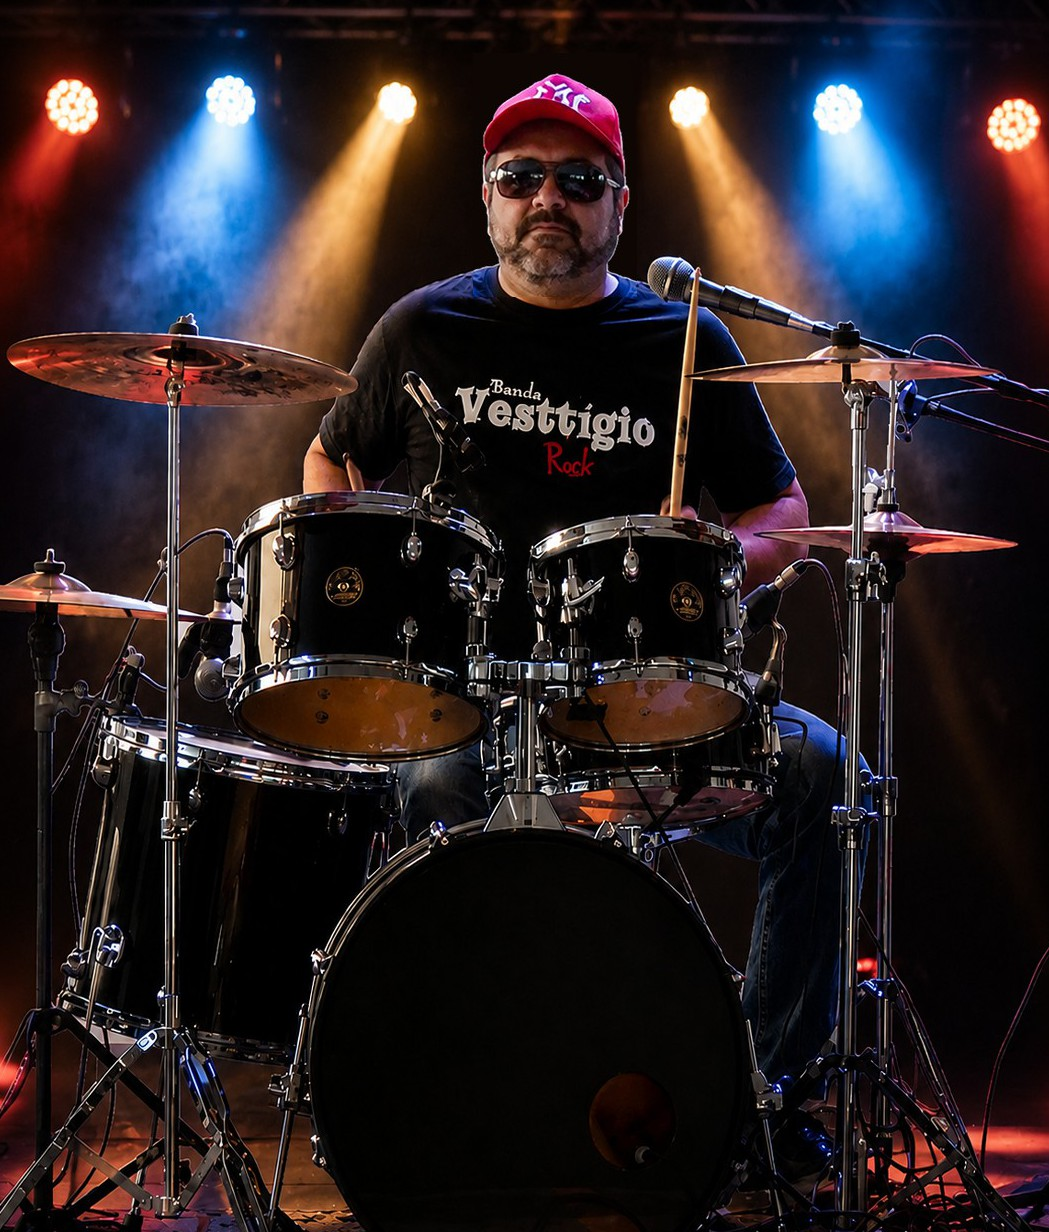
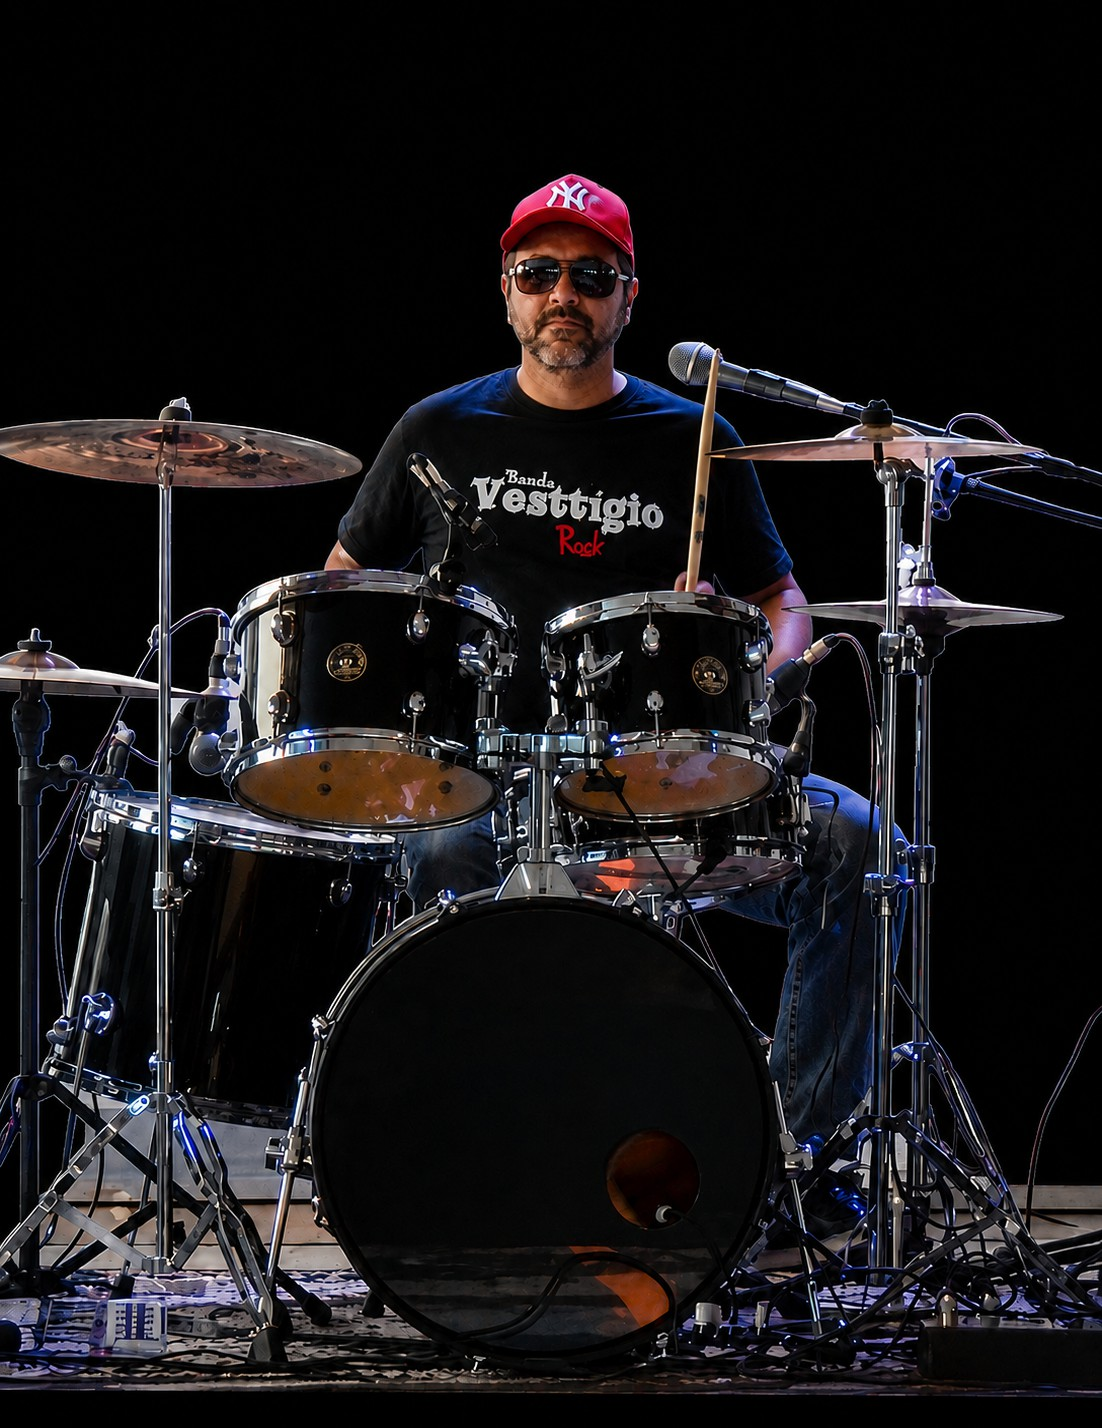
melhorias no download

diff --git a/script.js b/script.js
@@ -190,17 +190,46 @@ window.addEventListener("load", () => {
 /* ==========================================================
    DOWNLOADS CATALOG
 ========================================================= */
+const getFileNameFromPath = (path) => path.split('/').pop();
+
 const downloadCatalog = {
     'rider-tecnico': {
         label: 'Rider Técnico',
         description: 'Especificações e mapa de palco.',
         files: [
             {
-                title: 'Rider Técnico',
+                title: 'Rider Técnico (PDF)',
                 description: 'Especificações e mapa de palco.',
                 file: 'assets/downloads/rider.pdf',
                 format: 'PDF',
-                type: 'pdf'
+                type: 'pdf',
+                fileName: getFileNameFromPath('assets/downloads/rider.pdf')
+            },
+            {
+                title: 'Rider Técnico (ZIP)',
+                description: 'Pacote com rider e materiais extras.',
+                file: 'assets/downloads/rider.zip',
+                format: 'ZIP',
+                type: 'zip',
+                fileName: getFileNameFromPath('assets/downloads/rider.zip')
+            },
+            {
+                title: 'Mapa de Palco (JPG)',
+                description: 'Mapa de palco em alta resolução.',
+                file: 'assets/downloads/Mapa.jpg',
+                format: 'JPG',
+                type: 'image',
+                preview: 'assets/downloads/Mapa.jpg',
+                fileName: getFileNameFromPath('assets/downloads/Mapa.jpg')
+            },
+            {
+                title: 'Mapa de Palco (PNG)',
+                description: 'Mapa de palco em alta resolução.',
+                file: 'assets/downloads/mapa.png',
+                format: 'PNG',
+                type: 'image',
+                preview: 'assets/downloads/mapa.png',
+                fileName: getFileNameFromPath('assets/downloads/mapa.png')
             }
         ]
     },
@@ -213,7 +242,8 @@ const downloadCatalog = {
                 description: 'Histórico e proposta da banda.',
                 file: 'assets/downloads/release.pdf',
                 format: 'PDF',
-                type: 'pdf'
+                type: 'pdf',
+                fileName: getFileNameFromPath('assets/downloads/release.pdf')
             }
         ]
     },
@@ -222,12 +252,13 @@ const downloadCatalog = {
         description: 'Material de divulgação em alta.',
         files: [
             {
-                title: 'Fotos Oficiais',
-                description: 'Material de divulgação em alta.',
+                title: 'Banner de Divulgação',
+                description: 'Imagem para material promocional.',
                 file: 'assets/downloads/banner.png',
                 format: 'PNG',
                 type: 'image',
-                preview: 'assets/downloads/banner.png'
+                preview: 'assets/downloads/banner.png',
+                fileName: getFileNameFromPath('assets/downloads/banner.png')
             }
         ]
     },
@@ -241,7 +272,8 @@ const downloadCatalog = {
                 file: 'assets/downloads/logo.jpg',
                 format: 'JPG',
                 type: 'image',
-                preview: 'assets/downloads/logo.jpg'
+                preview: 'assets/downloads/logo.jpg',
+                fileName: getFileNameFromPath('assets/downloads/logo.jpg')
             },
             {
                 title: 'Logo Vesttigio – fundo transparente',
@@ -249,7 +281,8 @@ const downloadCatalog = {
                 file: 'assets/downloads/semfundo.png',
                 format: 'PNG',
                 type: 'image',
-                preview: 'assets/downloads/semfundo.png'
+                preview: 'assets/downloads/semfundo.png',
+                fileName: getFileNameFromPath('assets/downloads/semfundo.png')
             }
         ]
     }
@@ -285,30 +318,37 @@ const downloadModalPreviewTitle = downloadModalBackdrop.querySelector('#download
 const downloadModalPreviewContent = downloadModalBackdrop.querySelector('#downloadModalPreviewContent');
 const downloadModalPreviewDownload = downloadModalBackdrop.querySelector('#downloadModalPreviewDownload');
 
+let activeDownloadCategoryKey = null;
+
 const openDownloadModal = (categoryKey) => {
     const category = downloadCatalog[categoryKey];
     if (!category) return;
 
+    activeDownloadCategoryKey = categoryKey;
     downloadModalTitle.textContent = category.label;
     downloadModalDescription.textContent = category.description;
     downloadModalPreview.hidden = true;
     downloadModalPreviewContent.innerHTML = '';
 
-    downloadModalList.innerHTML = category.files.map((file, index) => `
+    downloadModalList.innerHTML = category.files.map((file, index) => {
+        const canPreview = ['pdf', 'image'].includes(file.type);
+        return `
         <div class="download-modal-item" data-file-index="${index}">
             <div class="download-modal-item-header">
                 <div>
                     <p class="download-modal-item-title">${file.title}</p>
+                    <p class="download-modal-item-filename">${file.fileName}</p>
                     <p class="download-modal-item-format">${file.format}</p>
                 </div>
                 <div class="download-modal-item-actions">
-                    <button type="button" class="download-modal-view">Visualizar</button>
-                    <a href="${file.file}" download>Download</a>
+                    ${canPreview ? `<button type="button" class="download-modal-view">Visualizar</button>` : ''}
+                    <a href="${file.file}" download="${file.fileName}">Baixar</a>
                 </div>
             </div>
             <p class="download-modal-item-description">${file.description}</p>
         </div>
-    `).join('');
+    `;
+    }).join('');
 
     downloadModalBackdrop.classList.add('active');
 };
@@ -357,17 +397,6 @@ document.addEventListener('keydown', (event) => {
     }
 });
 
-const downloadCards = document.querySelectorAll('.press-card');
-
-downloadCards.forEach(card => {
-    card.addEventListener('click', (event) => {
-        if (event.target.closest('a')) return;
-        const category = card.getAttribute('data-download-category');
-        if (!category) return;
-        openDownloadModal(category);
-    });
-});
-
 const delegateViewClick = (event) => {
     const viewButton = event.target.closest('.download-modal-view');
     if (!viewButton) return;
@@ -375,8 +404,8 @@ const delegateViewClick = (event) => {
     const item = viewButton.closest('.download-modal-item');
     if (!item) return;
 
-    const categoryKey = downloadModalTitle.textContent.toLowerCase().replace(/ /g, '-');
-    const category = Object.values(downloadCatalog).find(cat => cat.label === downloadModalTitle.textContent);
+    if (!activeDownloadCategoryKey) return;
+    const category = downloadCatalog[activeDownloadCategoryKey];
     if (!category) return;
 
     const fileIndex = Number(item.dataset.fileIndex);
@@ -384,5 +413,20 @@ const delegateViewClick = (event) => {
     if (!file) return;
     renderDownloadPreview(file);
 };
+
+const downloadCardLinks = document.querySelectorAll('.press-card a');
+
+downloadCardLinks.forEach(link => {
+    link.addEventListener('click', (event) => {
+        event.preventDefault();
+        const card = link.closest('.press-card');
+        if (!card) return;
+
+        const category = card.getAttribute('data-category');
+        if (!category) return;
+
+        openDownloadModal(category);
+    });
+});
 
 downloadModalList.addEventListener('click', delegateViewClick);
